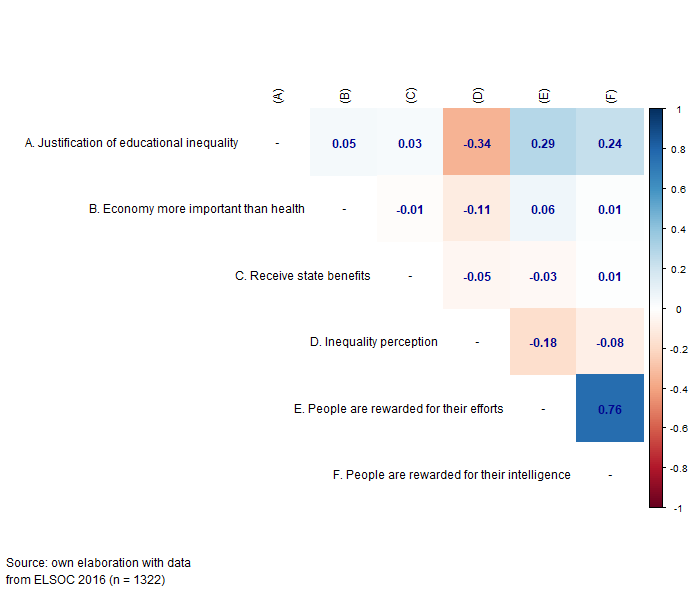
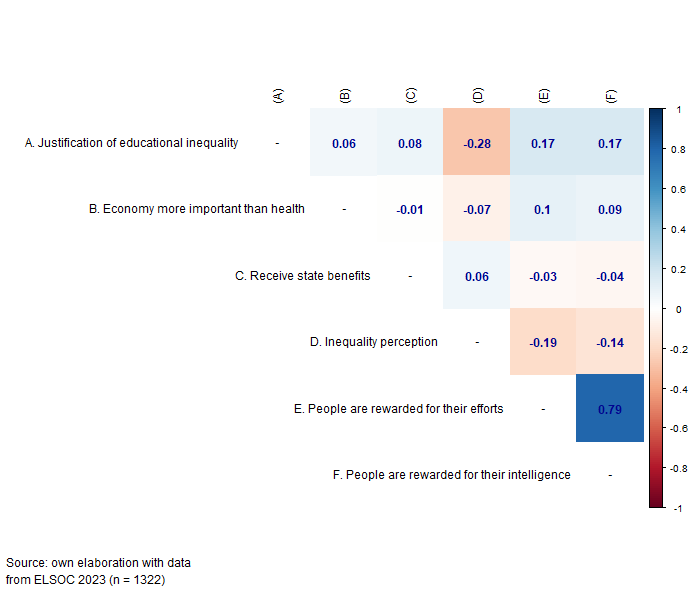
update corr tab and render paper

diff --git a/paper.html b/paper.html
@@ -171,8 +171,8 @@ window.Quarto = {
 </header>
 
 
-<p>This document was last modified at 2025-01-18 19:13:11</p>
-<p>and it was last rendered at 2025-01-18 19:13:11</p>
+<p>This document was last modified at 2025-01-19 12:03:54</p>
+<p>and it was last rendered at 2025-01-19 12:03:54</p>
 <section id="introduction" class="level1" data-number="1">
 <h1 data-number="1"><span class="header-section-number">1</span> Introduction</h1>
 <p>Despite the widespread recognition of education as a key factor for social mobility and equality of opportunities, disparities in this domain are far from being eliminated. As the last PISA report points out, “Socio-economically disadvantaged students are seven times more likely than advantaged students to score below Level 2 in mathematics on average across OECD countries” <span class="citation" data-cites="oecd_pisa_2023">(<a href="#ref-oecd_pisa_2023" role="doc-biblioref">OECD 2023</a>)</span>. Furthermore, empirical evidence from social science research has revealed an exacerbation of educational inequalities across various domains, such as family socioeconomic status, gender, ethnicity, and migratory background, particularly after COVID-19 <span class="citation" data-cites="darmody_impacts_2021">(<a href="#ref-darmody_impacts_2021" role="doc-biblioref">Darmody, Smyth, and Russell 2021</a>)</span>. Nevertheless, and despite the consistent empirical evidence on educational inequalities and their consequences, research on distributive justice indicates remarkable individual differences in the justification of unequal access to education <span class="citation" data-cites="lee_fairness_2023">(<a href="#ref-lee_fairness_2023" role="doc-biblioref">Lee and Stacey 2023</a>)</span>. In the present paper, we argue that the perception of meritocracy in society might play a role in the justification of economic inequalities in this particular domain. We examine this association in the context of COVID 19 in Chile, a period characterized by several challenges regarding the political and economic system that could have affected the way in which the role of individual performance and social outcomes are deemed.</p>
@@ -287,7 +287,7 @@ Figure&nbsp;3: Change in the mean of justification of educational inequality, pe
 </div>
 </div>
 </div>
-<p><a href="#fig-correlation" class="quarto-xref">Figure&nbsp;4</a> presents a correlation matrix of the main variables analyzed, using data from the first wave. In this matrix, the correlations vary between low and moderate values. The correlations between justification of educational inequality with the two covid variables are positive, but low. In addition, justification of education inequality depicts a moderate and negative association with the perception of inequality (<em>r</em>=-0.34, p&lt;.01) and a moderate and positive association with both meritocracy perception variables (<em>r</em>=0.29, p&lt;.01; <em>r</em>=0.24, p&lt;.01). Regarding the perception of inequality, it presents a moderate and negative association with both meritocracy perception variables (<em>r</em>=-0.18, p&lt;.01; <em>r</em>=-0.08, p&lt;.01). Finally, the two meritocracy variables present a high and positive association with each other (<em>r</em>=0.76, p&lt;.01).</p>
+<p><a href="#fig-correlation" class="quarto-xref">Figure&nbsp;4</a> presents a correlation matrix of the main variables analyzed, using data from the last wave (2023). In this matrix, the correlations vary between low and moderate values. The correlations between justification of educational inequality with the two COVID variables are positive, but low. In addition, justification of education inequality depicts a moderate and negative association with the perception of inequality (<em>r</em>=-0.28, p&lt;.01) and a moderate and positive association with both meritocracy perception variables (<em>r</em>=0.17, p&lt;.01; <em>r</em>=0.17, p&lt;.01). Regarding the perception of inequality, it presents a moderate and negative association with both meritocracy perception variables (<em>r</em>=-0.19, p&lt;.01; <em>r</em>=-0.14, p&lt;.01). Finally, the two meritocracy variables present a high and positive association with each other (<em>r</em>=0.79, p&lt;.01).</p>
 <div class="cell" data-layout-align="center">
 <div class="cell-output-display">
 <div id="fig-correlation" class="quarto-float quarto-figure quarto-figure-center anchored" data-fig-align="center" data-fig-pos="H">
@@ -303,10 +303,10 @@ Figure&nbsp;4: Correlation matrix of the main variables for the first wave (2016
 </div>
 </div>
 <p><em>Multilevel models</em></p>
-<p><a href="#tbl-multilevel" class="quarto-xref">Table&nbsp;2</a> shows the multilevel estimation results for the justification of educational inequality. Model 1 includes the survey waves to estimate intertemporal changes in the dependent variable. Taking 2016 as a reference point, we can observe a staggered decrease in 2017 (<span class="math inline">\beta</span>=-0.167, p&lt;.001), 2018 (<span class="math inline">\beta</span>=-0.059, p&lt;.05), and 2019 (<span class="math inline">\beta</span>=-0.03, p&gt;.05). Nevertheless, in the last waves of 2022 and 2023 there is a clear increase in level of justification of educational inequality (<span class="math inline">\beta</span>=0.204, p&lt;.001 and <span class="math inline">\beta</span>=0.233, p&lt;.001), suggesting a non-linear change in this variable. Attempting to model this path of change over time, Model 2 incorporates time (survey waves) as a continuous variable as well as its quadratic term, representing the nonlinear association initially observed in Model 1. On the one hand, the survey wave depicts a negative association, expressing an average decrease in inequality justification over time. On the other hand, the quadratic wave term is positive, indicating the reversion of this path in the last measurements point.</p>
-<p>Models 3 and 4 adds the two variables about the Covid context, where we can see that those who received state benefits during the pandemic justify less inequality in education compared to those who did not receive them, an effect that also remains significant when controlling for the rest of the variables in model 8 (<span class="math inline">\beta</span>=-0.093, p&lt;.01). On the other hand, those who believe that in this context the economy is more important than the health of the population justify more inequality in education, an effect that is maintained when controlling for all the variables in model 8 (<span class="math inline">\beta</span>=0.038, p&lt;.05).</p>
-<p>Models 5 and 6 introduce the meritocratic variables: talent (if intelligence and abilities are rewarded in society) and effort (if efforts are rewarded in society). In line with our hypotheses, the perception that talent is rewarded has a positive influence on the justification of educational inequality in Model 5 (<span class="math inline">\beta</span>=0.055, p&lt;.001). However, when controlling for the perception that effort is rewarded, this effect is no longer significant. In this sense, Model 6 shows that the perception that effort is rewarded in society is not only positively associated with the justification of educational inequality (<span class="math inline">\beta</span>=0.083, p&lt;.001), but it has a larger weight than the perception of talent. Inequality perception is added in Model 7, showing a negative association with the justification of educational inequality as hypothesized, remaining stable when controlling for the rest of the variables.</p>
-<p>Model 8 adds the socioeconomic variables to test hypothesis 7. Educational level and household per capita income were added, but none of them had a significant effect. However, in the next models, controlling for all variables, household per capita income had a positive significant effect (<span class="math inline">\beta</span>=0.001, p&lt;.05). In addition, in this model the demographic control variables were added, where being right-wing (compared to being left-wing) had a positive and significant effect (<span class="math inline">\beta</span>=0.27, p&lt;.001), and being women (compared to men) had a negative and significant effect (<span class="math inline">\beta</span>=-0.08, p&lt;.001). Subjective social status and age had no significant effect when controlling for all the variables analysed. The full models can be seen in the appendix (see <a href="#tbl-multilevel-full" class="quarto-xref">Table&nbsp;4</a>).</p>
+<p><a href="#tbl-multilevel" class="quarto-xref">Table&nbsp;2</a> shows the multilevel estimation results for the justification of educational inequality. Model 1 includes the survey waves to estimate intertemporal changes in the dependent variable. Taking 2016 as a reference point, we can observe a staggered decrease in 2017 (<span class="math inline">\beta</span>=-0.167, p&lt;.001), 2018 (<span class="math inline">\beta</span>=-0.059, p&lt;.05), and 2019 (<span class="math inline">\beta</span>=-0.03, p&gt;.05). Nevertheless, in the last waves of 2022 and 2023 there is a clear increase in level of justification of educational inequality (<span class="math inline">\beta</span>=0.204, p&lt;.001 and <span class="math inline">\beta</span>=0.233, p&lt;.001), suggesting a non-linear change in this variable. Attempting to model this path of change over time, Model 2 incorporates time (survey waves) as a continuous variable as well as its quadratic term, representing the nonlinear association initially observed in Model 1. On the one hand, the survey wave depicts a negative association, expressing an average decrease in inequality justification over time. On the other hand, the quadratic wave term is positive, indicating the reversion of this path in the last measurement points.</p>
+<p>Models 3 and 4 adds the two variables about the pandemic context, where we can see that those who received state benefits during this period justify less inequality in education compared to those who did not receive them. Although the effect size is small, it remains significant when controlling for the rest of the variables in model 8 (<span class="math inline">\beta</span>=-0.093, p&lt;.01). On the other hand, those who believe that in this context the economy is more important than the health of the population justify more inequality in education(<span class="math inline">\beta</span>=0.038, p&lt;.05, Model 8).</p>
+<p>Models 5 and 6 introduce the meritocratic variables: talent (if intelligence and abilities are rewarded in society) and effort (if efforts are rewarded in society). In line with our hypotheses, the perception that talent is rewarded has a positive influence on the justification of educational inequality in Model 5 (<span class="math inline">\beta</span>=0.055, p&lt;.001). However, when controlling for the perception that effort is rewarded, this effect is no longer significant. In this sense, Model 6 shows that the perception that effort is rewarded in society is not only positively associated with the justification of educational inequality (<span class="math inline">\beta</span>=0.083, p&lt;.001), but it has a larger weight than the perception of talent. Regarding inequality perception (added in Model 7), it depicts a negative association with the justification of educational inequality, remaining stable when controlling for the rest of the variables.</p>
+<p>Model 8 adds the socioeconomic variables to test hypothesis 7. Although educational level and household per capita income are not significant in this model, controlling for all variables in the next models, household per capita income depicts a positive effect (<span class="math inline">\beta</span>=0.001, p&lt;.05). The inclusion of other controls as being right-wing (compared to being left-wing) shows a positive association with justification of educational inequality (<span class="math inline">\beta</span>=0.27, p&lt;.001), whereas being a women (compared to men) had a negative effect (<span class="math inline">\beta</span>=-0.08, p&lt;.001). Subjective social status and age had no significant effect when controlling for all the variables analyzed. The full model specification can be seen in the appendix (see <a href="#tbl-multilevel-full" class="quarto-xref">Table&nbsp;4</a>).</p>
 <div id="tbl-multilevel" class="cell quarto-float quarto-figure quarto-figure-center anchored">
 <figure class="quarto-float quarto-float-tbl figure">
 <figcaption class="quarto-float-caption-top quarto-float-caption quarto-float-tbl" id="tbl-multilevel-caption-0ceaefa1-69ba-4598-a22c-09a6ac19f8ca">
@@ -1460,6 +1460,7 @@ Var: Residual
 </div>
 </figure>
 </div>
+<p>In this last part of the analysis we test hypotheses about the effect of COVID-19 on changes in the relationship between meritocracy and justification of educational inequality. In hypothesis 5, we proposed that the association between the perception of meritocracy and justification of inequality is mitigated in times of crisis, as meritocratic ideals might have been weakened due to critical situations associated with the COVID-19 pandemic. We test this hypothesis through interaction effects, shown in <a href="#tbl-interact" class="quarto-xref">Table&nbsp;3</a>. The first model is shown as the baseline model. It is the same as model 8 in <a href="#tbl-multilevel" class="quarto-xref">Table&nbsp;2</a>, but only shows the variables involved in the interaction for the sake of space (all other variables are included). Model 9 adds the interaction between the perception of talent-based meritocracy and whether state benefits were received during the pandemic, whereas Model 10 considers the perception of effort-related meritocracy for the interaction. Both variables show a negative significant interaction with receiving state benefits (<span class="math inline">\beta_{talent}</span>=-0.07, p&lt;.01; <span class="math inline">\beta_{effort}</span>=-0.05, p&lt;.05), meaning that for those who received state benefits the association between the the justification of inequality and the perception of effort-based meritocracy lower by 0.05 points, and by 0.07 points regarding the perception of talent-based meritocracy. This last interaction is depicted in <a href="#fig-interact-talent" class="quarto-xref">Figure&nbsp;5</a>, showing that the positive association between the perception of talent-based meritocracy and the justification of educational inequality is smaller for those who received state benefits during the pandemic.</p>
 <div id="tbl-interact" class="cell quarto-float quarto-figure quarto-figure-center anchored">
 <figure class="quarto-float quarto-float-tbl figure">
 <figcaption class="quarto-float-caption-top quarto-float-caption quarto-float-tbl" id="tbl-interact-caption-0ceaefa1-69ba-4598-a22c-09a6ac19f8ca">
@@ -1790,7 +1791,6 @@ Var: Residual
 </div>
 </figure>
 </div>
-<p>In this last part of the analysis, we test hypotheses about the effect of COVID-19 on changes in the relationship between meritocracy and justification of educational inequality. In hypothesis 5, we proposed that the association between the perception of meritocracy and justification of inequality is mitigated in times of crisis, as meritocratic ideals might have been weakened due to critical situations associated with the COVID-19 pandemic. We test this hypothesis through interaction effects, shown in <a href="#tbl-interact" class="quarto-xref">Table&nbsp;3</a>. The first model is shown as the base model. It is the same as model 8 in <a href="#tbl-multilevel" class="quarto-xref">Table&nbsp;2</a>, but only shows the variables involved in the interaction for space reasons (all other variables are controlled). Model 9 adds the interaction between the perception of talent-based meritocracy and whether state benefits were received during the pandemic. Meanwhile, model 10 does the same, but now, it is for the perception of effort-related meritocracy. As can be seen, both variables show a negative significant interaction with receiving state benefits (<span class="math inline">\beta_{talent}</span>=-0.07, p&lt;.01; <span class="math inline">\beta_{effort}</span>=-0.05, p&lt;.05), which means that, on average, the association between the perception of talent-based meritocracy and the justification of inequality is lower by 0.07 points for those who received state benefits and the association between the perception of effort-based meritocracy and the justification of inequality is lower by 0.05 points for those who received state benefits.</p>
 <div class="cell" data-layout-align="center">
 <div class="cell-output-display">
 <div id="fig-interact-talent" class="quarto-float quarto-figure quarto-figure-center anchored" data-fig-align="center" data-fig-pos="H">
@@ -1805,16 +1805,14 @@ Figure&nbsp;5: Interaction effect of merit based on talent and receive state ben
 </div>
 </div>
 </div>
-<p>To further explore this interaction, the interaction between receiving state benefits and the perception of meritocracy based on talent can be visualized in <a href="#fig-interact-talent" class="quarto-xref">Figure&nbsp;5</a>. This figure shows that the positive effect of perceiving greater meritocracy based on talent on the justification of educational inequality is smaller for those who received state benefits during the pandemic.</p>
 </section>
 <section id="discussion-and-conclusions" class="level1" data-number="5">
 <h1 data-number="5"><span class="header-section-number">5</span> Discussion and conclusions</h1>
-<p>Our research sought to examine the relationship between the perception of meritocracy and the justification of inequality in education from a longitudinal perspective amid the health crisis generated by the COVID-19 pandemic. In general, our results showed mixed evidence about our hypotheses. Whereas we find support for the association between the perception of meritocracy and justification of inequality across time, the analyses that involved changes in justification of inequality are against our initial proposal. We argued that in times of crisis, greater exposure to risk due to the health context would result in a lower justification of inequality by citizens. In this regard, longitudinal models showed that the justification of inequality in education is far from being linear, and whereas a decreasing pattern was found between 2017 and 2019, there is a striking increase in the last measurement point (2022), after the peak of the COVID pandemic. As we mentioned at the beginning, given our data limitations it is not possible to attribute such changes only to the pandemic and the related economic and social crises. As in the Chilean case, the pandemic period occurred along with a constitutional process, disentangling different forces driving public opinion it becomes difficult and deserves further qualitative and quantitative studies. A closer look to the political environment during the last year in the country could give additional hints. Some recent studies have argued that the election of a far left-wing constitutional assembly during this period generated a backslash effect, mainly due to several scandals that led to the delegitimation of this assembly. This could have driven preferences in a conservative direction, which was reflected in the election of a right-wing second assembly after the failed first constitutional process <span class="citation" data-cites="palanza_chiles_2023 sazo_chile_2023">(<a href="#ref-palanza_chiles_2023" role="doc-biblioref">Palanza and Sotomayor 2023</a>; <a href="#ref-sazo_chile_2023" role="doc-biblioref">Sazo 2023</a>)</span>.</p>
-<p>Regarding the status position, our central hypothesis was that individuals in more advantaged situations and with greater resources would tend to defend their interests and justify greater education inequality (<span class="math inline">H_2</span>). In this regard, our results show a positive and robust relationship between income and the justification of inequality, which would align with our original hypothesis based on the rational interests of the better-off that would lead to a larger inequality justification. Besides status, we also considered inequality perception, as the literature on attitudes toward inequality has argued that a greater justification of inequality is associated with its perceived magnitude (<span class="math inline">H_3</span>). Consistent with this hypothesis, our results showed that, throughout the years, a larger perceived economic inequality motivates a lower justification of inequality in education.</p>
-<p>The main focus of this study was on the relationship between meritocracy and justification of inequality, arguing that those who perceive that the society in which they live complies with meritocratic principles, would be more inclined to justify inequality in education (<span class="math inline">H_4</span>). At first look, the results are consistent with the hypothesis; however, some nuances are worth attending concerning different aspects of meritocracy, namely effort and talent. Our results are favorable for the effort dimension but not confirmed for the talent dimension. In other words, the perception of meritocracy in terms of rewarded effort is more relevant in justifying access to education than the perception of talent. This could be explained as that talent could be more associated with luck in terms of random assignment, and in this terms would not be enough reason (as it is effort) to justify educational inequality.</p>
-<p>Our first hypothesis was supported, as we anticipated that the relationship between perceptions of meritocracy and the justification of educational inequality would tend to diminish over time. We based this on questions that related directly to experiences during the pandemic, such as receiving economic benefits during the lockdown period. Our findings revealed that those who received benefits justified educational inequality less than those who did not. Moreover, we observed that the connection between perceived meritocracy and the justification of educational inequality weakened for those who received benefits. This evidence partially supports our temporal change hypothesis (<span class="math inline">H5</span>). In other words, the influence of meritocracy on justifying inequality appears to lessen, which aligns with our expectations given the social context in the post-COVID era. One possible interpretation is that, during times of increased risk, people may become more skeptical of narratives emphasizing individual effort over collective efforts. This shift in perspective might also foster stronger solidarity to protect individual and societal wellbeing. However, further studies are necessary to explore this phenomenon using more specific conceptual and methodological approaches.</p>
-<p>Among the limitations of our study, we can mention at least three. First, we know that inequalities in education can manifest themselves in terms of outcomes as well as in areas such as access to social services in education as part of welfare policies. In this regard, the construct that we have captured with our indicator can be framed more in the latter, while the evaluation of justice involved in this process does not consider aspects such as equality of educational opportunities or observable outcomes such as the performance of individual or educational institutions. Second, as it has been established by recent research <span class="citation" data-cites="castillo_multidimensional_2023">(<a href="#ref-castillo_multidimensional_2023" role="doc-biblioref">Castillo et al. 2023</a>)</span>, the perception of meritocracy can be understood through individual attributions regarding effort and talent, but also as a function of structural aspects such as family of origin status or social capital. In this sense, the available measurements restricted us to the use of single indicators for effort and talent, and further research should consider improving the measurement quality in this regard. Finally, there are limitations involving the longitudinal dimension of the data used. Given constraints for data collection during the pandemic, the ELSOC study had to shorten the questionnaire in 2021 and unfortunately, the educational justice indicator was excluded from that survey. Consequently, the results of temporal change have to be considered carefully, and further data waves could give us more information on this matter.</p>
-<p>The capabilities of the ELSOC longitudinal database are not limited to micro-level estimates. In this regard, thanks to the sampling strategy of the survey, it would be possible to make contextual estimates at the municipality level in future studies. For instance, statistical models could include contextual information from administrative data sources, allowing testing for hypotheses that include contextual socioeconomic inequality as well as its dynamics over time. Furthermore, this dataset could be used for comparing inequality justification in policy areas besides education, such as health and pensions. Future studies may shed light on how meritocratic perceptions and beliefs affect differently such areas and their changes over time, which would give relevant hints from social sciences for the discussion about societal and cultural changes as well as their impacts on solidarity and social cohesion.</p>
+<p>Our research sought to examine the justification of inequality in education from a longitudinal perspective amid the health crisis generated by the COVID-19 pandemic. In general, our results showed mixed evidence about our hypotheses. We argued that in times of crisis, greater exposure to risk due to the health context would result in a lower justification of inequality by citizens. In this regard, longitudinal models showed that the justification of inequality in education is far from being linear, and whereas a decreasing pattern was found between 2017 and 2019, there is a striking increase in the post-pandemic measurement points. Besides, our findings revealed that those who received benefits justified educational inequality less than those who did not. Still, given our data limitations it is not possible to attribute such changes only to the pandemic and the related economic and social crises. As during this very same period in Chile there were two (failed) constitutional processes, disentangling different forces driving public opinion becomes cumbersome and deserves further qualitative and quantitative studies. Along this line, some recent studies have argued that the election of a far left-wing constitutional assembly in the first process generated a backslash effect, mainly due to several scandals that led to the delegitimation of this assembly. This could have driven preferences in a conservative direction, which was reflected in the election of a right-wing second assembly after the failed first constitutional process <span class="citation" data-cites="palanza_chiles_2023 sazo_chile_2023">(<a href="#ref-palanza_chiles_2023" role="doc-biblioref">Palanza and Sotomayor 2023</a>; <a href="#ref-sazo_chile_2023" role="doc-biblioref">Sazo 2023</a>)</span>.</p>
+<p>The main focus of this study was on the relationship between meritocracy and justification of inequality, arguing that those who perceive that the society in which they live complies with meritocratic principles, would be more inclined to justify inequality in education. At first look, the results are consistent with the hypothesis; however, some nuances are worth attending as the effort dimension prevails over the talent dimension. In other words, the perception of meritocracy in terms of rewarded effort is more relevant in justifying access to education than the perception of talent. This could be explained as that talent could be more associated with luck in terms of random assignment, and in this terms would not be enough reason (as it is effort) to justify educational inequality. Furthermore, we observed that the connection between perceived meritocracy and the justification of educational inequality weakened for those who received state benefits, which aligns with our expectations given the social context in the post-COVID era. One possible interpretation is that, during times of increased risk, people may become more skeptical of narratives emphasizing individual effort over collective efforts. This shift in perspective might also foster stronger solidarity to protect individual and societal wellbeing. However, further studies are necessary to explore this phenomenon using more specific conceptual and methodological approaches.</p>
+<p>Regarding the status position, our central hypothesis was that individuals in more advantaged situations and with greater resources would tend to defend their interests and justify greater education inequality. In this regard, our results show a positive relationship between income and the justification of inequality, which would align with our argument that rational interests of the better-off that would lead to a larger inequality justification. Besides status, we also considered inequality perception, as the literature on attitudes toward inequality has argued that a greater justification of inequality is associated with its perceived magnitude. Consistent with this hypothesis, our results showed that, throughout the years, a larger perceived economic inequality motivates a lower justification of inequality in education.</p>
+<p>Among the limitations of our study, we can mention at least three. First, the operationalization of justification of educational inequality is rather limited. We counted only on a single item for this in this study, and further work is needed in order to assess the validity and reliability of measuring such construct. Second, as it has been established by recent research <span class="citation" data-cites="castillo_multidimensional_2023">(<a href="#ref-castillo_multidimensional_2023" role="doc-biblioref">Castillo et al. 2023</a>)</span>, the perception of meritocracy can be understood through individual attributions regarding effort and talent, but also taking into account the role of structural aspects such as family status and social capital. Due to data limitations such dimensions were not included here, therefore providing a partial perspective on the areas of perceived meritocracy. Finally, there are limitations involving the longitudinal dimension of the data used. Given constraints for data collection during the pandemic, the ELSOC study had to shorten the questionnaire in 2021 and unfortunately, the educational justice indicator was excluded from that survey. Consequently, the results of temporal change have to be considered carefully, and further data waves could give us more information on this matter.</p>
+<p>Regarding future studies, the capabilities of the ELSOC longitudinal database are not limited to micro-level estimates. In this regard, thanks to the sampling strategy of the survey, it would be possible to make contextual estimates at the municipality level. For instance, statistical models could include contextual information from administrative data sources, allowing testing for hypotheses that include contextual socioeconomic inequality as well as its dynamics over time. Furthermore, this dataset could be used for comparing inequality justification in policy areas besides education, such as health and pensions. Future studies may shed light on how meritocratic perceptions and beliefs affect differently such areas and their changes over time, which would give relevant hints from social sciences for the discussion about societal and cultural changes as well as their impacts on solidarity and social cohesion.</p>
 </section>
 <section id="references" class="level1" data-number="6">
 <h1 data-number="6"><span class="header-section-number">6</span> References</h1>
